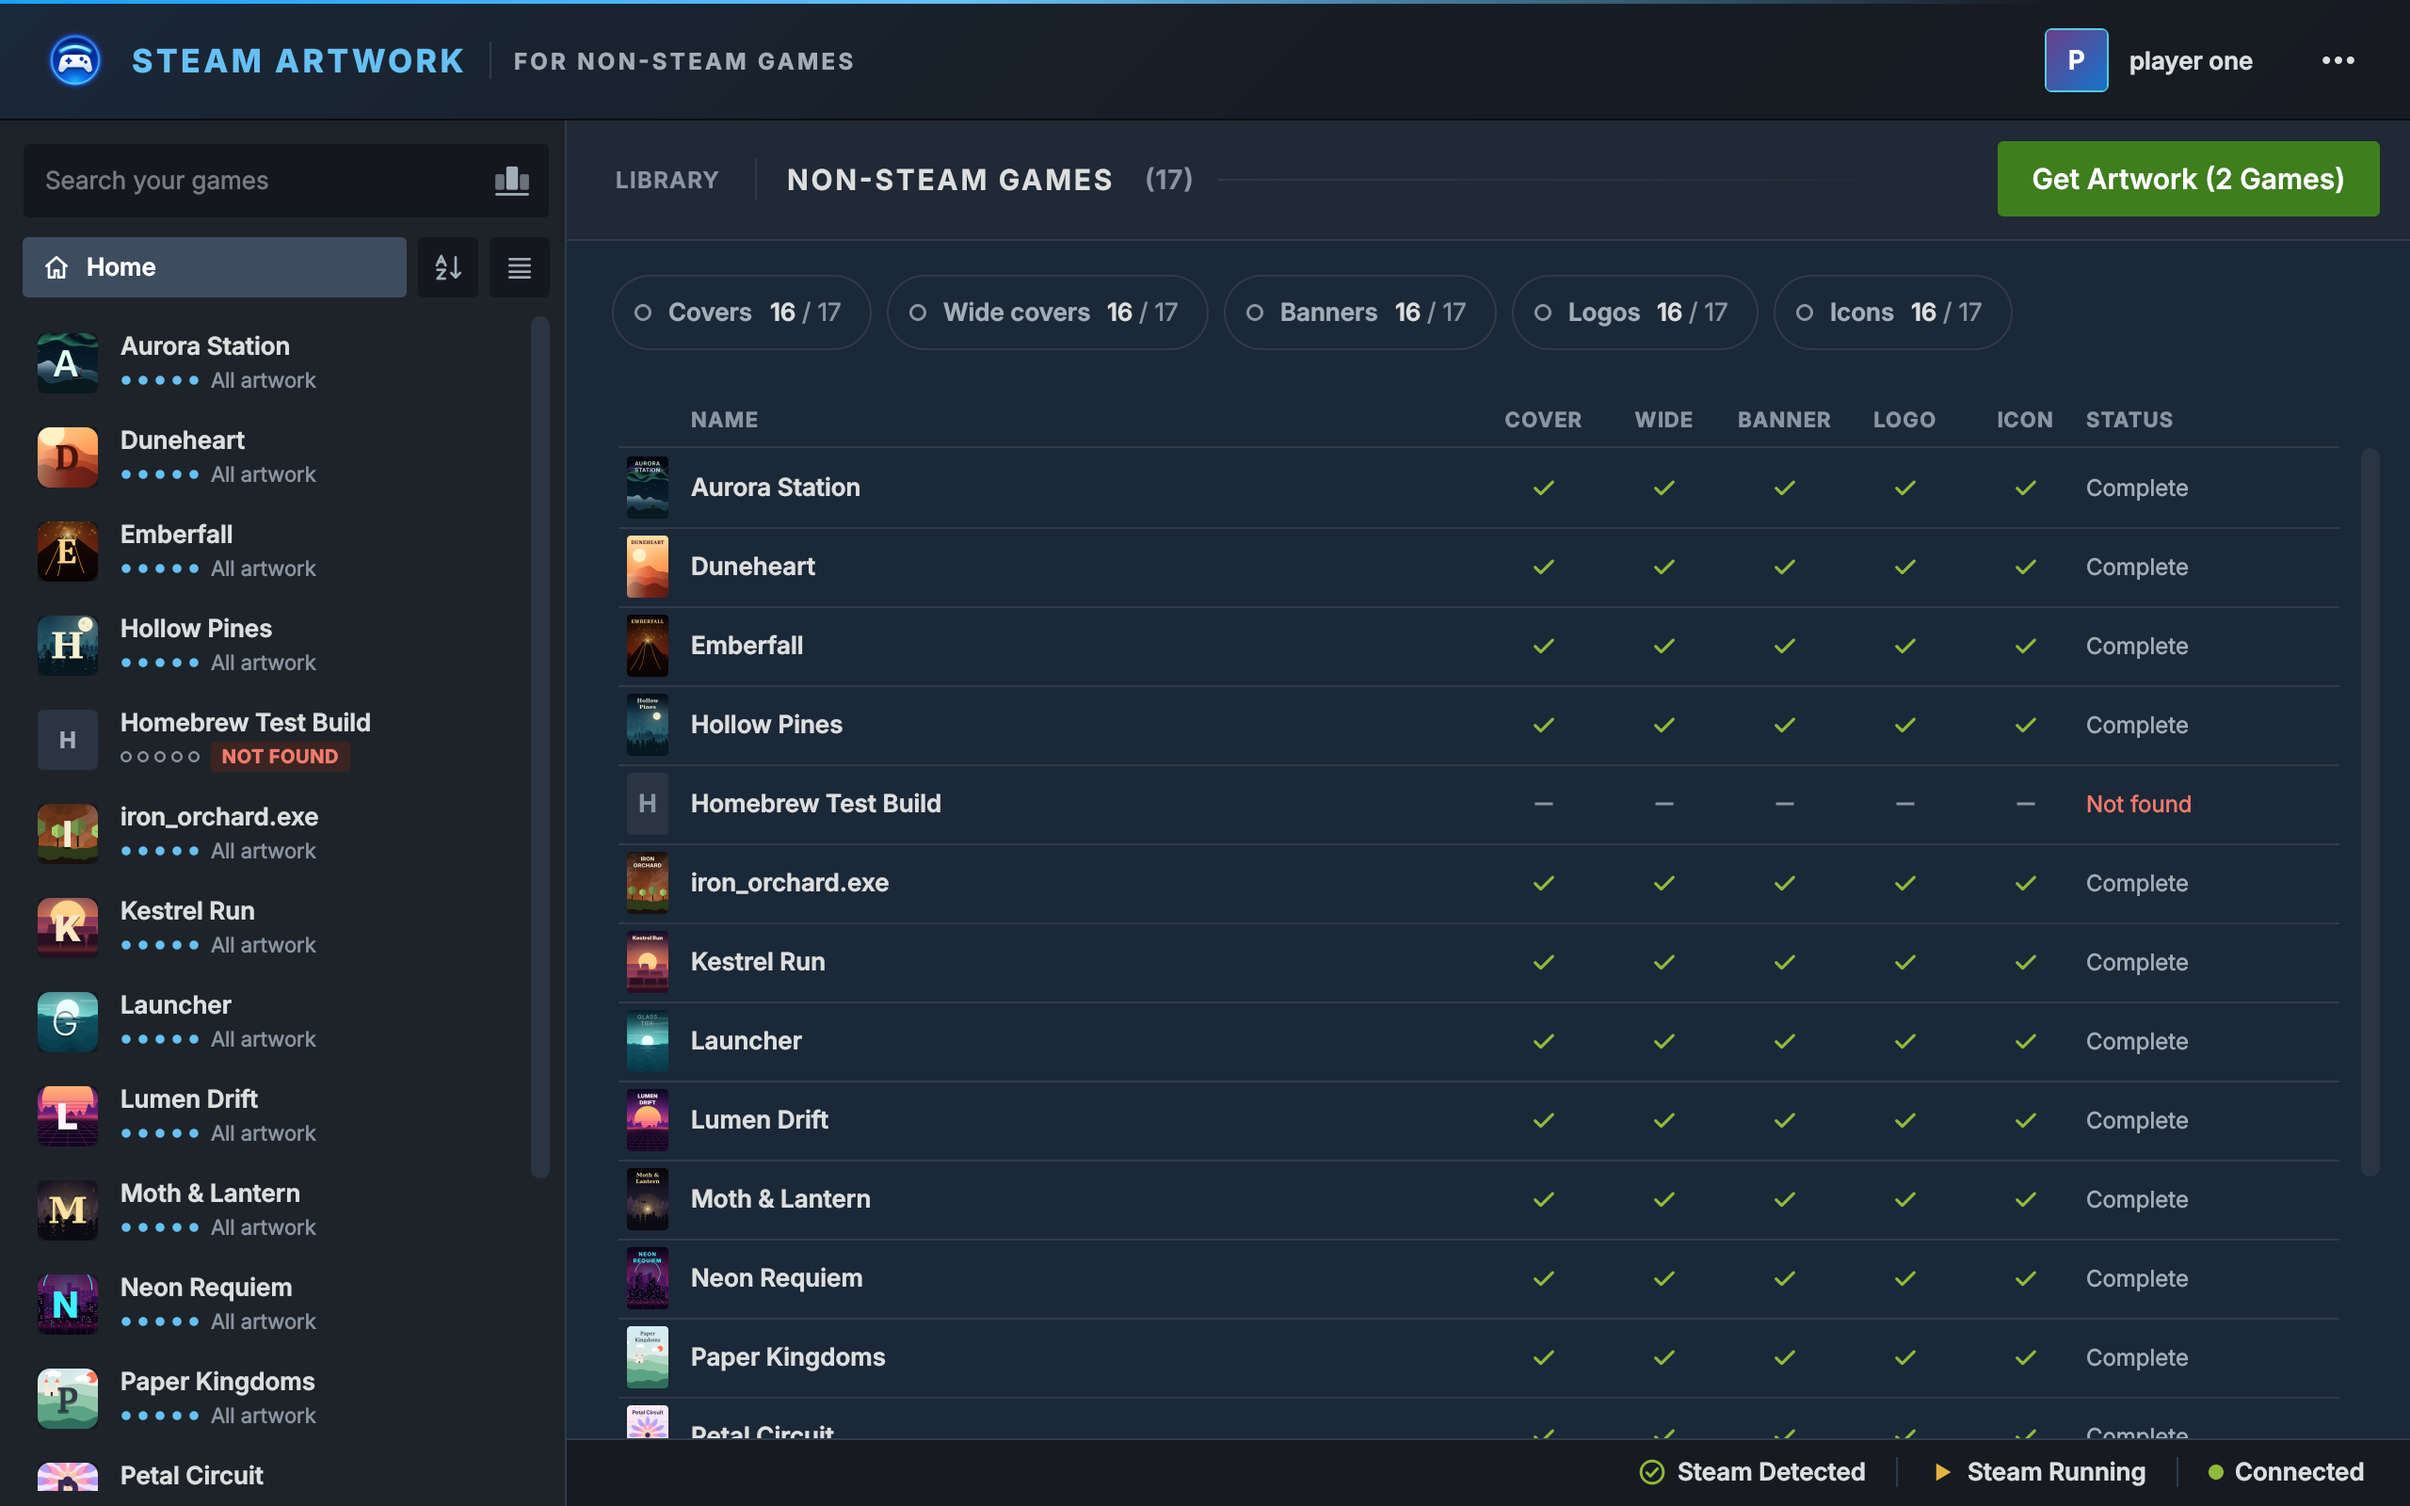
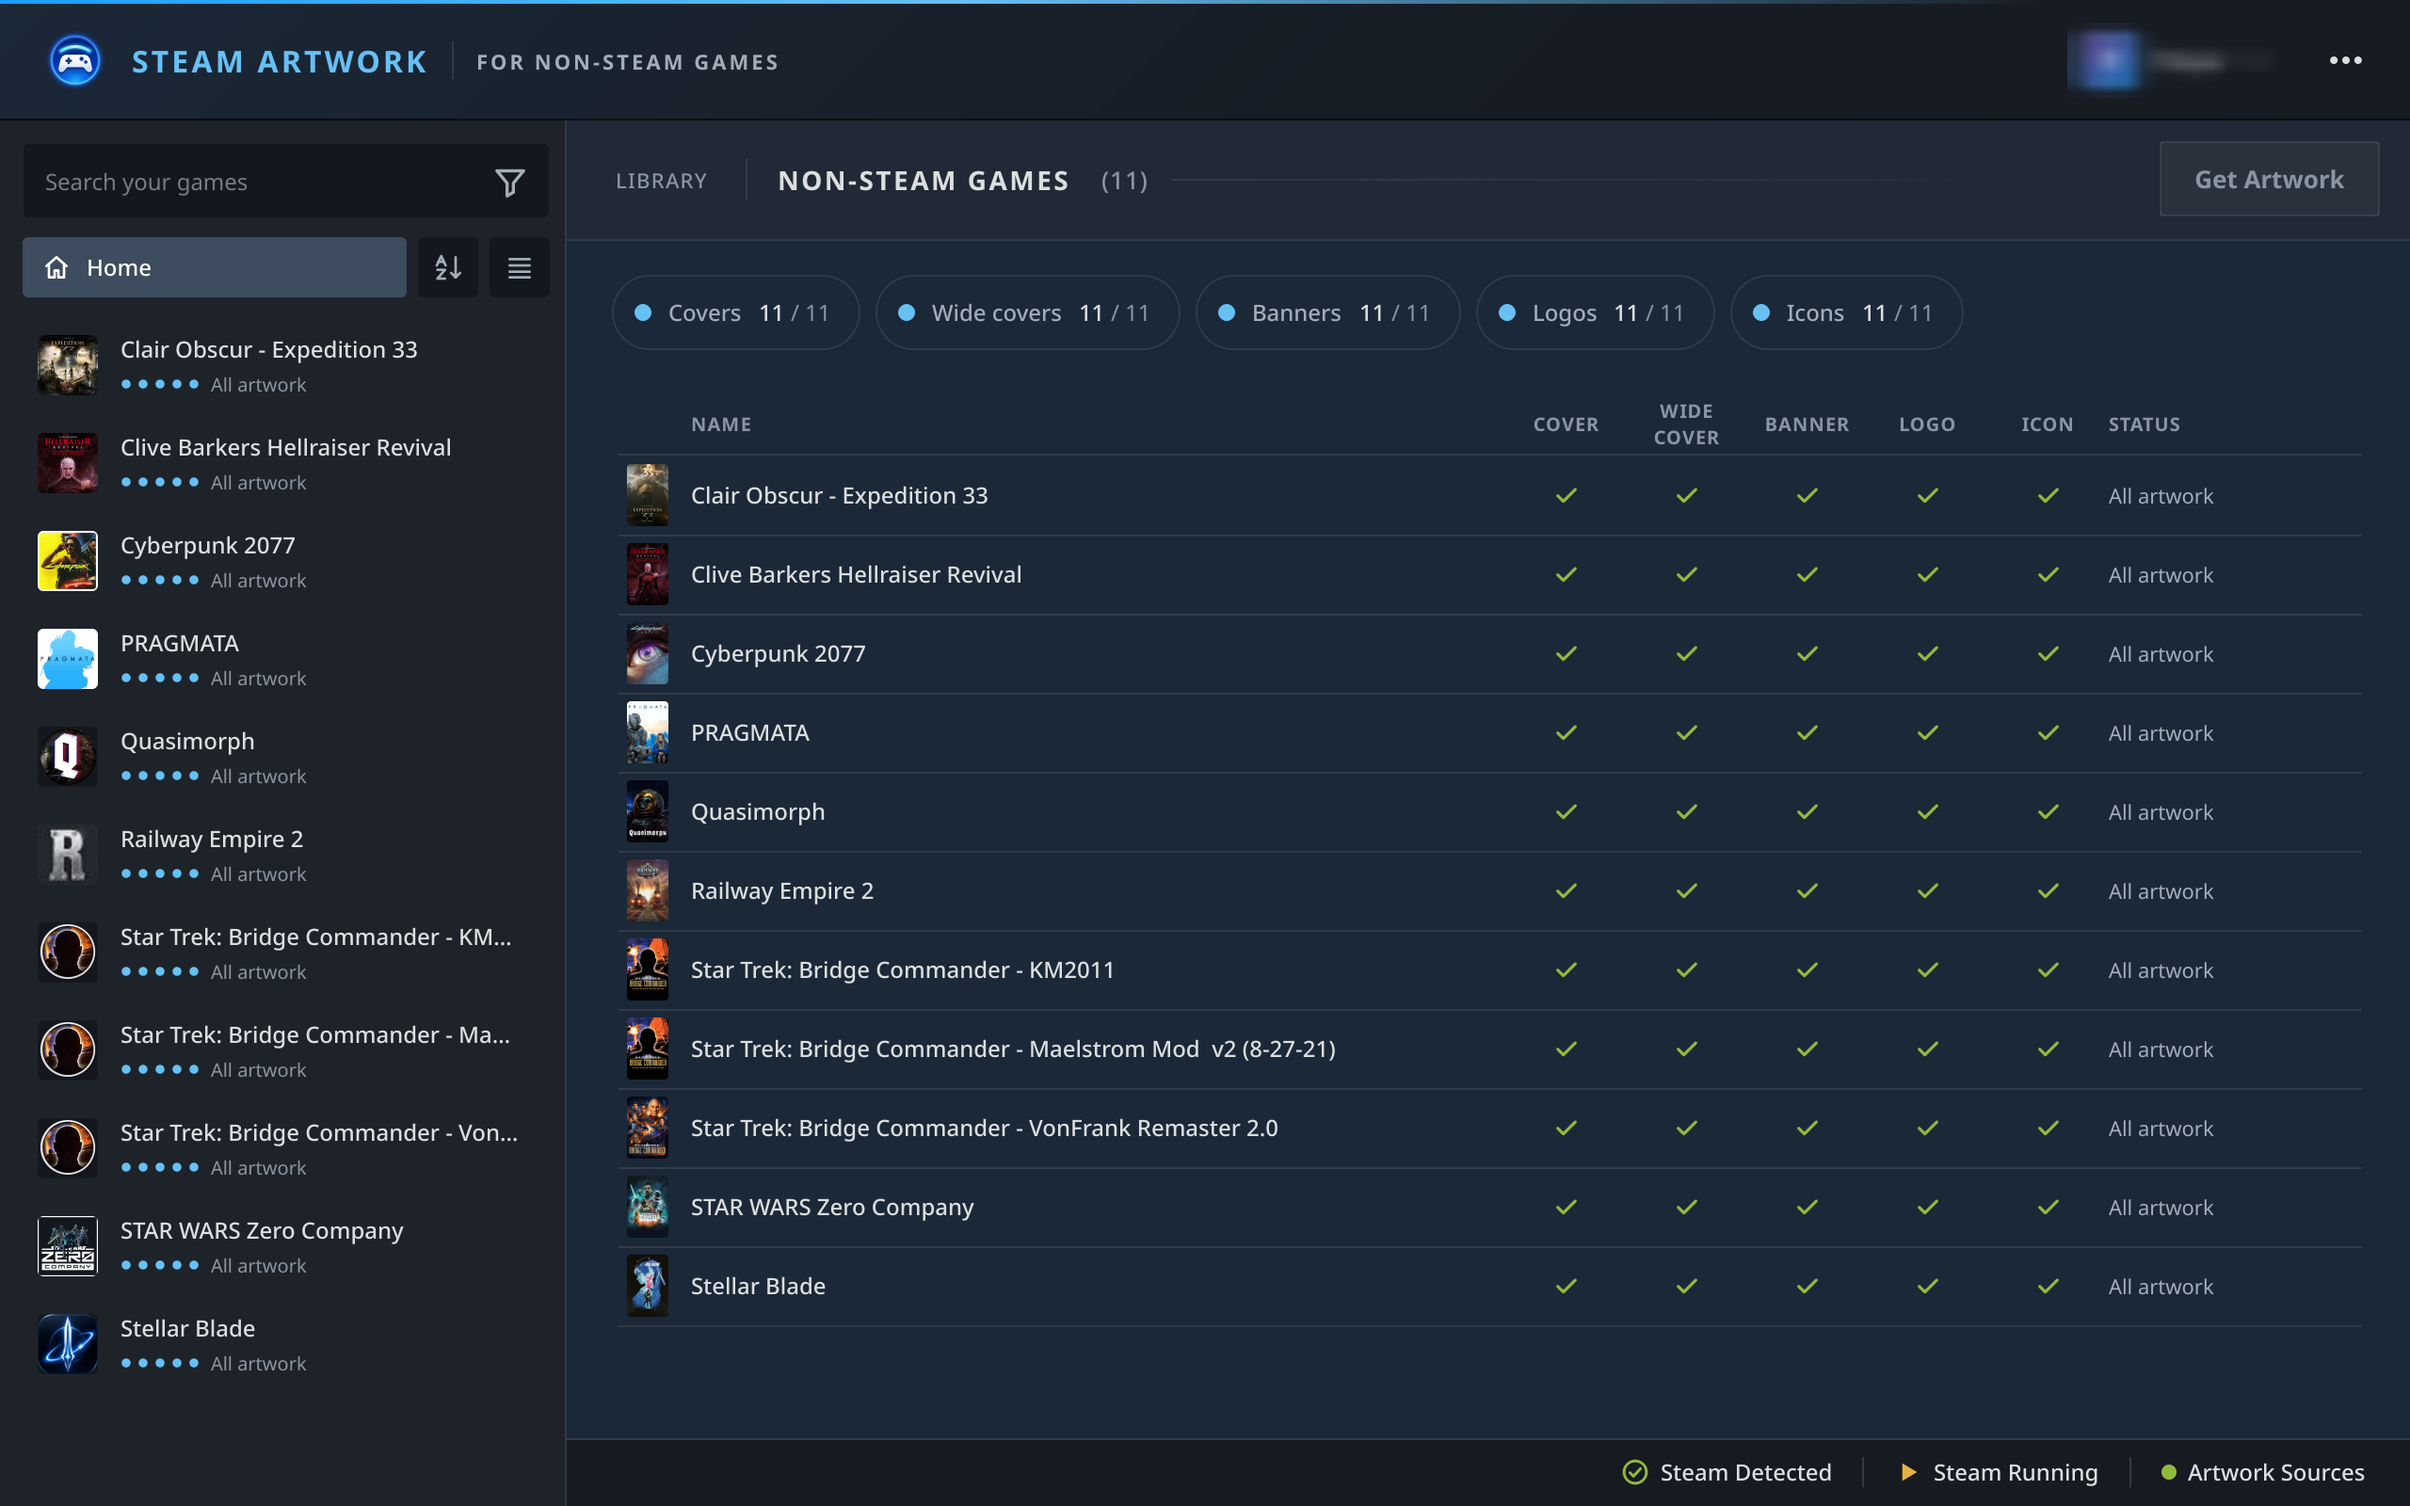
README: real screenshots and animations (Cyberpunk 2077), Steam login name blurred
New stills of a real library, and the animations show Cyberpunk 2077: its
game page playing animated art, picking an animated cover, the See all panel,
and Get All Artwork (animated) filling a whole library. The made-up pictures
for the tray, the cover wall animation and the rename screen are gone. The
capture harness skips broken links Steam leaves in the grid folder.

Claude-Session: https://claude.ai/code/session_016peQ854ZE2tBNf5SgYQWDg

diff --git a/docs/render/harness.py b/docs/render/harness.py
@@ -201,7 +201,8 @@ def setup_real(have: str = "full"):
     cfg_dst.mkdir(parents=True)
     shutil.copy2(ucfg / "shortcuts.vdf", cfg_dst / "shortcuts.vdf")
     if have != "none" and (ucfg / "grid").is_dir():
-        shutil.copytree(ucfg / "grid", cfg_dst / "grid", ignore=shutil.ignore_patterns(".replaced"))
+        shutil.copytree(ucfg / "grid", cfg_dst / "grid", ignore=shutil.ignore_patterns(".replaced"),
+                        ignore_dangling_symlinks=True)  # Steam leaves broken links behind
     else:
         (cfg_dst / "grid").mkdir()
     sf = ShortcutsFile(cfg_dst / "shortcuts.vdf")

diff --git a/README.md b/README.md
@@ -27,19 +27,19 @@ I made it because the two tools most people use for this on Linux felt clunky an
 
 Linux first, including Steam Deck desktop mode: the window fits the Deck's 1280×800 screen. Windows support is built in but not yet packaged or tested on real hardware.
 
-<sub>The games and artwork in these pictures are made up for the demo. Your own library will show real artwork.</sub>
+<sub>Pictures from a real library (the Steam login name is blurred). Artwork by the SteamGridDB community and the games' publishers.</sub>
 
 ## Features
 
 ### Your library as a cover wall
 
-![The library: a wall of covers, with a dashed tile for a game that has none](docs/screenshot.png)
+![The library: a wall of covers, one for each non-Steam game](docs/screenshot.png)
 
-The start page looks like your Steam library. Games without a cover show as dashed tiles, so the gaps stand out, and the counts along the top say how many games have each piece. Switch between **Grid**, **List** and **Details** views, sort **A to Z**, **Z to A**, **Missing artwork first** or **Recently added**, and narrow the list to **Missing Art** or **To Check**. The search box filters the wall too.
+The start page looks like your Steam library. Games without a cover show as dashed tiles, so the gaps stand out, and the counts along the top say how many games have each piece. Switch between **Grid**, **List** and **Details** views, sort **A to Z**, **Z to A**, **Missing artwork first** or **Recently added**, and narrow the list to **Missing Artwork** or **Needs a Look**. The search box filters the wall too.
 
 <p>
   <img src="docs/library-details.png" alt="The Details view: each game with a tick or a gap for every piece" width="49%">
-  <img src="docs/filter-menu.png" alt="The filter menu: All, Missing Art, To Check" width="49%">
+  <img src="docs/filter-menu.png" alt="The filter menu: All, Missing Artwork, Needs a Look" width="49%">
 </p>
 
 ### All five pieces, each with its options beside it
@@ -52,11 +52,11 @@ The start page looks like your Steam library. Games without a cover show as dash
 
 **See more** opens a panel with every option for that piece, four covers wide, animated ones playing at full size. Filter by style, hover to see an option on the page behind, click to pick it.
 
-![The See all panel: every cover for a game, with style filters](docs/tray.png)
+![The See all panel: every cover for a game, animated ones playing; hovering previews it on the page, a click picks it](docs/see-all.webp)
 
 ### Animated artwork
 
-![Animated covers playing on the cover wall](docs/animated-covers.webp)
+![A game page with its animated cover, banner and logo playing](docs/animated-page.webp)
 
 Animated covers, wide covers, banners and logos sit in the same strips as still ones, marked with a small play tag, and play in the app and in your Steam library. The game page plays them too, with the logo over the banner as Steam shows it. Turn them off with **Show Animated Artwork** in the ⋯ menu. Icons stay still, as Steam doesn't animate them.
 
@@ -80,9 +80,11 @@ Shortcuts often end up with titles like `Launcher` or `game.exe`. The app looks 
 
 On a game's page, **Get All Artwork** does the same for one game. The arrow beside it chooses whether it takes **Still** or **Animated** artwork, and the button says **Animated** when that's on. The same choice is **Get All Prefers Animated Artwork** in the ⋯ menu, and Get Artwork on the library page follows it too.
 
+![The arrow beside Get All Artwork: Still Artwork or Animated Artwork](docs/get-all-menu.png)
+
 ### Nothing changes until you press Apply
 
-![Two games with new artwork waiting, ready to apply](docs/staged-library.png)
+![A game with new artwork waiting, ready to apply](docs/staged-library.png)
 
 Picks wait as **Ready to apply** until you press **Apply**, so you can try things without touching Steam. Apply backs up Steam's game list first, writes everything in one go, and offers **Undo** straight after.
 
